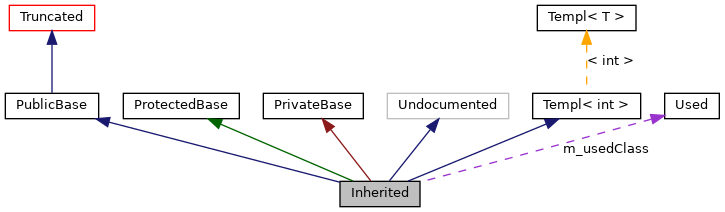
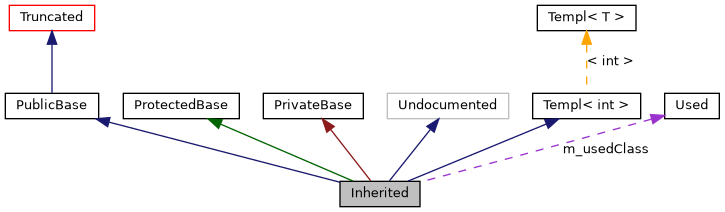
Update documentation to 4ac5c4d

diff --git a/structaditof_1_1_camera_details.html b/structaditof_1_1_camera_details.html
@@ -144,7 +144,7 @@ std::string&#160;</td><td class="memItemRight" valign="bottom"><a class="el" hre
 
 <p class="definition">Definition at line <a class="el" href="camera__definitions_8h_source.html#l00132">132</a> of file <a class="el" href="camera__definitions_8h_source.html">camera_definitions.h</a>.</p>
 </div><hr/>The documentation for this struct was generated from the following file:<ul>
-<li>/home/vsts/work/1/s/libaditof/sdk/include/aditof/<a class="el" href="camera__definitions_8h_source.html">camera_definitions.h</a></li>
+<li>/home/runner/work/ToF/ToF/libaditof/sdk/include/aditof/<a class="el" href="camera__definitions_8h_source.html">camera_definitions.h</a></li>
 </ul>
 </div><!-- contents -->
 <!-- start footer part -->

diff --git a/structaditof_1_1_depth_sensor_mode_details.html b/structaditof_1_1_depth_sensor_mode_details.html
@@ -139,7 +139,7 @@ int&#160;</td><td class="memItemRight" valign="bottom"><a class="el" href="struc
 
 <p class="definition">Definition at line <a class="el" href="sensor__definitions_8h_source.html#l00120">120</a> of file <a class="el" href="sensor__definitions_8h_source.html">sensor_definitions.h</a>.</p>
 </div><hr/>The documentation for this struct was generated from the following file:<ul>
-<li>/home/vsts/work/1/s/libaditof/sdk/include/aditof/<a class="el" href="sensor__definitions_8h_source.html">sensor_definitions.h</a></li>
+<li>/home/runner/work/ToF/ToF/libaditof/sdk/include/aditof/<a class="el" href="sensor__definitions_8h_source.html">sensor_definitions.h</a></li>
 </ul>
 </div><!-- contents -->
 <!-- start footer part -->

diff --git a/structaditof_1_1_driver_configuration.html b/structaditof_1_1_driver_configuration.html
@@ -126,7 +126,7 @@ int&#160;</td><td class="memItemRight" valign="bottom"><a class="el" href="struc
 
 <p class="definition">Definition at line <a class="el" href="sensor__definitions_8h_source.html#l00067">67</a> of file <a class="el" href="sensor__definitions_8h_source.html">sensor_definitions.h</a>.</p>
 </div><hr/>The documentation for this struct was generated from the following file:<ul>
-<li>/home/vsts/work/1/s/libaditof/sdk/include/aditof/<a class="el" href="sensor__definitions_8h_source.html">sensor_definitions.h</a></li>
+<li>/home/runner/work/ToF/ToF/libaditof/sdk/include/aditof/<a class="el" href="sensor__definitions_8h_source.html">sensor_definitions.h</a></li>
 </ul>
 </div><!-- contents -->
 <!-- start footer part -->

diff --git a/structaditof_1_1_intrinsic_parameters.html b/structaditof_1_1_intrinsic_parameters.html
@@ -142,7 +142,7 @@ float&#160;</td><td class="memItemRight" valign="bottom"><a class="el" href="str
 
 <p class="definition">Definition at line <a class="el" href="camera__definitions_8h_source.html#l00056">56</a> of file <a class="el" href="camera__definitions_8h_source.html">camera_definitions.h</a>.</p>
 </div><hr/>The documentation for this struct was generated from the following file:<ul>
-<li>/home/vsts/work/1/s/libaditof/sdk/include/aditof/<a class="el" href="camera__definitions_8h_source.html">camera_definitions.h</a></li>
+<li>/home/runner/work/ToF/ToF/libaditof/sdk/include/aditof/<a class="el" href="camera__definitions_8h_source.html">camera_definitions.h</a></li>
 </ul>
 </div><!-- contents -->
 <!-- start footer part -->

diff --git a/structaditof_1_1_sensor_details.html b/structaditof_1_1_sensor_details.html
@@ -94,7 +94,7 @@ std::string&#160;</td><td class="memItemRight" valign="bottom"><a class="el" hre
 
 <p class="definition">Definition at line <a class="el" href="sensor__definitions_8h_source.html#l00050">50</a> of file <a class="el" href="sensor__definitions_8h_source.html">sensor_definitions.h</a>.</p>
 </div><hr/>The documentation for this struct was generated from the following file:<ul>
-<li>/home/vsts/work/1/s/libaditof/sdk/include/aditof/<a class="el" href="sensor__definitions_8h_source.html">sensor_definitions.h</a></li>
+<li>/home/runner/work/ToF/ToF/libaditof/sdk/include/aditof/<a class="el" href="sensor__definitions_8h_source.html">sensor_definitions.h</a></li>
 </ul>
 </div><!-- contents -->
 <!-- start footer part -->

diff --git a/structaditof_1_1_metadata.html b/structaditof_1_1_metadata.html
@@ -158,7 +158,7 @@ int32_t&#160;</td><td class="memItemRight" valign="bottom"><a class="el" href="s
 
 <p class="definition">Definition at line <a class="el" href="frame__definitions_8h_source.html#l00147">147</a> of file <a class="el" href="frame__definitions_8h_source.html">frame_definitions.h</a>.</p>
 </div><hr/>The documentation for this struct was generated from the following file:<ul>
-<li>/home/vsts/work/1/s/libaditof/sdk/include/aditof/<a class="el" href="frame__definitions_8h_source.html">frame_definitions.h</a></li>
+<li>/home/runner/work/ToF/ToF/libaditof/sdk/include/aditof/<a class="el" href="frame__definitions_8h_source.html">frame_definitions.h</a></li>
 </ul>
 </div><!-- contents -->
 <!-- start footer part -->

diff --git a/structaditof_1_1_frame_data_details.html b/structaditof_1_1_frame_data_details.html
@@ -110,7 +110,7 @@ unsigned int&#160;</td><td class="memItemRight" valign="bottom"><a class="el" hr
 
 <p class="definition">Definition at line <a class="el" href="frame__definitions_8h_source.html#l00048">48</a> of file <a class="el" href="frame__definitions_8h_source.html">frame_definitions.h</a>.</p>
 </div><hr/>The documentation for this struct was generated from the following file:<ul>
-<li>/home/vsts/work/1/s/libaditof/sdk/include/aditof/<a class="el" href="frame__definitions_8h_source.html">frame_definitions.h</a></li>
+<li>/home/runner/work/ToF/ToF/libaditof/sdk/include/aditof/<a class="el" href="frame__definitions_8h_source.html">frame_definitions.h</a></li>
 </ul>
 </div><!-- contents -->
 <!-- start footer part -->

diff --git a/structaditof_1_1_frame_details.html b/structaditof_1_1_frame_details.html
@@ -114,7 +114,7 @@ bool&#160;</td><td class="memItemRight" valign="bottom"><a class="el" href="stru
 
 <p class="definition">Definition at line <a class="el" href="frame__definitions_8h_source.html#l00093">93</a> of file <a class="el" href="frame__definitions_8h_source.html">frame_definitions.h</a>.</p>
 </div><hr/>The documentation for this struct was generated from the following file:<ul>
-<li>/home/vsts/work/1/s/libaditof/sdk/include/aditof/<a class="el" href="frame__definitions_8h_source.html">frame_definitions.h</a></li>
+<li>/home/runner/work/ToF/ToF/libaditof/sdk/include/aditof/<a class="el" href="frame__definitions_8h_source.html">frame_definitions.h</a></li>
 </ul>
 </div><!-- contents -->
 <!-- start footer part -->

diff --git a/structaditof_1_1_point3_i__sdk.html b/structaditof_1_1_point3_i__sdk.html
@@ -98,7 +98,7 @@ int16_t&#160;</td><td class="memItemRight" valign="bottom"><a class="el" href="s
 
 <p class="definition">Definition at line <a class="el" href="frame__definitions_8h_source.html#l00136">136</a> of file <a class="el" href="frame__definitions_8h_source.html">frame_definitions.h</a>.</p>
 </div><hr/>The documentation for this struct was generated from the following file:<ul>
-<li>/home/vsts/work/1/s/libaditof/sdk/include/aditof/<a class="el" href="frame__definitions_8h_source.html">frame_definitions.h</a></li>
+<li>/home/runner/work/ToF/ToF/libaditof/sdk/include/aditof/<a class="el" href="frame__definitions_8h_source.html">frame_definitions.h</a></li>
 </ul>
 </div><!-- contents -->
 <!-- start footer part -->

diff --git a/sensor__enumerator__interface_8h_source.html b/sensor__enumerator__interface_8h_source.html
@@ -5,7 +5,7 @@
 <meta http-equiv="X-UA-Compatible" content="IE=9"/>
 <meta name="generator" content="Doxygen 1.8.15"/>
 <meta name="viewport" content="width=device-width, initial-scale=1"/>
-<title>Time-of-Flight-SDK: /home/vsts/work/1/s/libaditof/sdk/include/aditof/sensor_enumerator_interface.h Source File</title>
+<title>Time-of-Flight-SDK: /home/runner/work/ToF/ToF/libaditof/sdk/include/aditof/sensor_enumerator_interface.h Source File</title>
 <link href="tabs.css" rel="stylesheet" type="text/css"/>
 <script type="text/javascript" src="jquery.js"></script>
 <script type="text/javascript" src="dynsections.js"></script>

diff --git a/sensor__enumerator__factory_8h_source.html b/sensor__enumerator__factory_8h_source.html
@@ -5,7 +5,7 @@
 <meta http-equiv="X-UA-Compatible" content="IE=9"/>
 <meta name="generator" content="Doxygen 1.8.15"/>
 <meta name="viewport" content="width=device-width, initial-scale=1"/>
-<title>Time-of-Flight-SDK: /home/vsts/work/1/s/libaditof/sdk/include/aditof/sensor_enumerator_factory.h Source File</title>
+<title>Time-of-Flight-SDK: /home/runner/work/ToF/ToF/libaditof/sdk/include/aditof/sensor_enumerator_factory.h Source File</title>
 <link href="tabs.css" rel="stylesheet" type="text/css"/>
 <script type="text/javascript" src="jquery.js"></script>
 <script type="text/javascript" src="dynsections.js"></script>

diff --git a/depth__sensor__interface_8h_source.html b/depth__sensor__interface_8h_source.html
@@ -5,7 +5,7 @@
 <meta http-equiv="X-UA-Compatible" content="IE=9"/>
 <meta name="generator" content="Doxygen 1.8.15"/>
 <meta name="viewport" content="width=device-width, initial-scale=1"/>
-<title>Time-of-Flight-SDK: /home/vsts/work/1/s/libaditof/sdk/include/aditof/depth_sensor_interface.h Source File</title>
+<title>Time-of-Flight-SDK: /home/runner/work/ToF/ToF/libaditof/sdk/include/aditof/depth_sensor_interface.h Source File</title>
 <link href="tabs.css" rel="stylesheet" type="text/css"/>
 <script type="text/javascript" src="jquery.js"></script>
 <script type="text/javascript" src="dynsections.js"></script>
